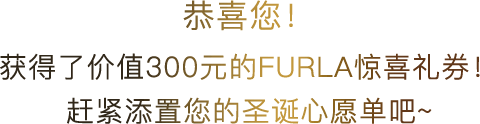
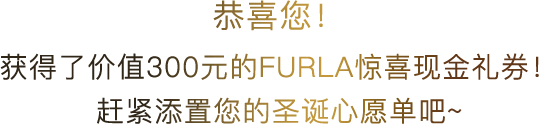
update prize tips

Changed region(s): [[0.0, 0.4113, 1.0, 0.6532], [0.125, 0.7742, 0.9062, 1.0], [0.375, 0.0, 0.625, 0.2419]]

diff --git a/dist/css/style.css b/dist/css/style.css
@@ -1,1 +1,1 @@
-@charset "UTF-8";*,html{-webkit-text-size-adjust:100%}article,aside,details,figcaption,figure,footer,header,hgroup,img,main,menu,nav,section,summary{display:block}.popup,img{width:100%}.popup,.video-wrap{bottom:0;right:0;box-sizing:border-box}.animate,body{-webkit-backface-visibility:hidden}.animate,.box-top{-webkit-transition:all 1s}.bg,.box-animate,.pin{overflow:hidden}a,abbr,acronym,address,applet,article,aside,audio,b,big,blockquote,body,canvas,caption,center,cite,code,dd,del,details,dfn,div,dl,dt,em,embed,fieldset,figcaption,figure,footer,form,h1,h2,h3,h4,h5,h6,header,hgroup,html,i,iframe,img,ins,kbd,label,legend,li,mark,menu,nav,object,ol,output,p,pre,q,ruby,s,samp,section,small,span,strike,strong,sub,summary,sup,table,tbody,td,tfoot,th,thead,time,tr,tt,u,ul,var,video{margin:0;padding:0;border:0;font:inherit;font-size:100%;vertical-align:baseline}html{line-height:1}ol,ul{list-style:none}table{border-collapse:collapse;border-spacing:0}caption,td,th{text-align:left;font-weight:400;vertical-align:middle}blockquote,q{quotes:none}blockquote:after,blockquote:before,q:after,q:before{content:"";content:none}a img{border:none}@media all and (orientation:landscape){html{font-size:calc(100vh / 375 * 50)}}@media all and (orientation:portrait){html{font-size:calc(100vw / 375 * 50)}}body{font-family:'Microsoft Yahei',sans-serif;line-height:1.5;font-size:.24rem;color:#000}*{-webkit-touch-callout:none;-webkit-tap-highlight-color:transparent}:not(input):not(textarea):not(select){-webkit-user-select:none;-moz-user-select:none;-ms-user-select:none;user-select:none}.hide{display:none!important}.popup{display:none;position:fixed;left:0;top:0;height:100%;padding:1.4rem .5rem;background:rgba(0,0,0,.8);z-index:20;color:#000}.popup.show{display:block}.popup .inner{width:100vw;position:absolute;left:50%;top:50%;-webkit-transform:translate(-50%,-50%);-moz-transform:translate(-50%,-50%);-ms-transform:translate(-50%,-50%);-o-transform:translate(-50%,-50%);transform:translate(-50%,-50%)}.popup .title{padding:.2rem 0;margin:0 auto;text-align:center;background:#000;color:#fff;font-size:.36rem}.popup .pcontent{padding:.4rem;font-size:.28rem;line-height:1.6;text-align:left;color:#515151}.popup .pcontent p{color:#fff;font-size:.24rem;padding:0 .26rem}.popup .pcontent h3{color:#fff;font-size:.32rem;margin-bottom:.2rem}.popup .pcontent h3.t2{margin-top:.5rem}.popup .btn-close{position:relative;z-index:20;width:.8rem;height:.8rem;text-indent:-999em;background:#fff;border-radius:100%;margin:0 auto}.popup .btn-close:after,.popup .btn-close:before{content:'';display:block;width:.6rem;height:.04rem;top:50%;left:50%;margin-left:-.3rem;position:absolute;background:#a38334}.popup .btn-close:after{-webkit-transform:rotate(45deg);-moz-transform:rotate(45deg);-ms-transform:rotate(45deg);-o-transform:rotate(45deg);transform:rotate(45deg)}.popup .btn-close:before{-webkit-transform:rotate(-45deg);-moz-transform:rotate(-45deg);-ms-transform:rotate(-45deg);-o-transform:rotate(-45deg);transform:rotate(-45deg)}.video-wrap{display:none;position:fixed;left:0;top:0;width:100%;height:100%;z-index:10;background:#000}.device-andriod .video-wrap{padding-top:1.3rem}.video-wrap .video-block{position:absolute;left:0;top:0;width:100%;height:100%;z-index:1}.video-wrap.show{display:block}.video-wrap .video-js{z-index:10;width:100%!important;height:100%!important}.video-wrap .btn-closevideo{z-index:11;width:.6rem;height:.6rem;cursor:pointer;position:absolute;right:.2rem;top:.2rem;padding:.1rem}.video-wrap .btn-closevideo:after,.video-wrap .btn-closevideo:before{content:'';display:block;width:.6rem;height:.03rem;top:50%;position:absolute;background:rgba(255,255,255,.6)}.video-wrap .btn-closevideo:after{-webkit-transform:rotate(45deg);-moz-transform:rotate(45deg);-ms-transform:rotate(45deg);-o-transform:rotate(45deg);transform:rotate(45deg)}.video-wrap .btn-closevideo:before{-webkit-transform:rotate(-45deg);-moz-transform:rotate(-45deg);-ms-transform:rotate(-45deg);-o-transform:rotate(-45deg);transform:rotate(-45deg)}.video-wrap .btn-closevideo:hover:after,.video-wrap .btn-closevideo:hover:before{background:#fff}@media screen and (orientation:portrait){.show-on-landscape{display:none}.show-on-portrait{display:block}}@media screen and (orientation:landscape){.show-on-landscape{display:block}.show-on-portrait{display:none}}.alertpop{position:absolute;left:0;top:0;z-index:102;width:100%;height:100%;background:rgba(0,0,0,.6)}.alertpop .inner{position:absolute;left:50%;top:50%;-webkit-transform:translate(-50%,-50%);-moz-transform:translate(-50%,-50%);-ms-transform:translate(-50%,-50%);-o-transform:translate(-50%,-50%);transform:translate(-50%,-50%);padding:.6rem .2rem;background:#fff;color:#000;font-size:.32rem;text-align:center;border-radius:5px}.alertpop .msg{font-size:.24rem}.alertpop .btn-alert-ok{position:absolute;top:0;right:0;z-index:20;width:.6rem;height:.6rem;text-indent:-999em}.alertpop .btn-alert-ok:after,.alertpop .btn-alert-ok:before{content:'';display:block;width:.4rem;height:.02rem;top:50%;left:50%;margin-left:-.2rem;position:absolute;background:#000}.alertpop .btn-alert-ok:after{-webkit-transform:rotate(45deg);-moz-transform:rotate(45deg);-ms-transform:rotate(45deg);-o-transform:rotate(45deg);transform:rotate(45deg)}.alertpop .btn-alert-ok:before{-webkit-transform:rotate(-45deg);-moz-transform:rotate(-45deg);-ms-transform:rotate(-45deg);-o-transform:rotate(-45deg);transform:rotate(-45deg)}.ajaxpop{position:absolute;z-index:10;top:0;left:0;width:100%;height:100%;margin-right:5px}.ajaxpop .loading{position:absolute;width:2rem;height:1rem;top:50%;left:50%;margin-left:-1.1rem;margin-top:-.6rem;line-height:1rem;background:rgba(0,0,0,.8);padding:.2rem;border-radius:10px;-ms-border-radius:10px;-moz-border-radius:10px;-o-border-radius:10px;-webkit-border-radius:10px;text-align:center;color:#fff}.ajaxpop .icon-loading{display:inline-block;position:relative;width:.3rem;height:.3rem;margin-right:4px;vertical-align:middle;border-radius:100%;-ms-border-radius:100%;-moz-border-radius:100%;-o-border-radius:100%;-webkit-border-radius:100%;border:3px solid rgba(255,255,255,.4)}.ajaxpop .icon-loading:after{content:'';position:absolute;top:-3px;right:-3px;bottom:-3px;left:-3px;border-radius:100%;-ms-border-radius:100%;-moz-border-radius:100%;-o-border-radius:100%;-webkit-border-radius:100%;border:3px solid transparent;border-top-color:#fff;-webkit-animation:spin 1s linear infinite}@-webkit-keyframes spin{0%{-webkit-transform:rotate(0)}100%{-webkit-transform:rotate(360deg)}}@-moz-keyframes spin{0%{-moz-transform:rotate(0)}100%{-moz-transform:rotate(360deg)}}@-o-keyframes spin{0%{-o-transform:rotate(0)}100%{-o-transform:rotate(360deg)}}@keyframes spin{0%{-webkit-transform:rotate(0);transform:rotate(0)}100%{-webkit-transform:rotate(360deg);transform:rotate(360deg)}}.animate{animation-duration:.6s;-webkit-animation-duration:.6s;animation-timing-function:cubic-bezier(.42,0,.58,1);-webkit-animation-timing-function:cubic-bezier(.42,0,.58,1);animation-play-state:running;-webkit-animation-play-state:running;animation-fill-mode:both;-webkit-animation-fill-mode:both;-moz-backface-visibility:hidden;-ms-backface-visibility:hidden;backface-visibility:hidden;-webkit-perspective:1000;-moz-perspective:1000;-ms-perspective:1000;perspective:1000;-webkit-transform:translate3d(0,0,0);-moz-transform:translate3d(0,0,0);-ms-transform:translate3d(0,0,0);transform:translate3d(0,0,0);-moz-transition:all 1s;-o-transition:all 1s;transition:all 1s}.fade{animation-name:fade;-webkit-animation-name:fade}.fadeinup{animation-name:fadeInUp;-webkit-animation-name:fadeInUp}@-webkit-keyframes fadeInUp{0%{opacity:0;-webkit-transform:translateY(20px)}100%{opacity:1;-webkit-transform:translateY(0)}}@-moz-keyframes fadeInUp{0%{opacity:0;-moz-transform:translateY(20px)}100%{opacity:1;-moz-transform:translateY(0)}}@-o-keyframes fadeInUp{0%{opacity:0;-o-transform:translateY(20px)}100%{opacity:1;-o-transform:translateY(0)}}@keyframes fadeInUp{0%{opacity:0;-webkit-transform:translateY(20px);transform:translateY(20px)}100%{opacity:1;-webkit-transform:translateY(0);transform:translateY(0)}}.fadeindown{animation-name:fadeInDown;-webkit-animation-name:fadeInDown}@-webkit-keyframes fadeInDown{0%{opacity:0;-webkit-transform:translateY(0)}100%{opacity:1;-webkit-transform:translateY(20px)}}@-moz-keyframes fadeInDown{0%{opacity:0;-moz-transform:translateY(0)}100%{opacity:1;-moz-transform:translateY(20px)}}@-o-keyframes fadeInDown{0%{opacity:0;-o-transform:translateY(0)}100%{opacity:1;-o-transform:translateY(20px)}}@keyframes fadeInDown{0%{opacity:0;-webkit-transform:translateY(0);transform:translateY(0)}100%{opacity:1;-webkit-transform:translateY(20px);transform:translateY(20px)}}.fadeout{animation-name:fadeOut;-webkit-animation-name:fadeOut}.delay1{animation-delay:1s;-webkit-animation-delay:1s}.delay2{animation-delay:2s;-webkit-animation-delay:2s}.delay3{animation-delay:3s;-webkit-animation-delay:3s}.delay4{animation-delay:4s;-webkit-animation-delay:4s}.delay5{animation-delay:5s;-webkit-animation-delay:5s}.fadeoutbottom{opacity:0;-webkit-transform:translateY(10px);-moz-transform:translateY(10px);-ms-transform:translateY(10px);-o-transform:translateY(10px);transform:translateY(10px)}.fadeintop{opacity:1;z-index:2;-webkit-transform:translateY(-10px);-moz-transform:translateY(-10px);-ms-transform:translateY(-10px);-o-transform:translateY(-10px);transform:translateY(-10px)}.bg,.wrapper{z-index:1;width:100%;height:100%;left:0}.slidetotop{animation-name:slidetotop;-webkit-animation-name:slidetotop}@-webkit-keyframes fade{0%{opacity:0}100%{opacity:1}}@-moz-keyframes fade{0%{opacity:0}100%{opacity:1}}@-o-keyframes fade{0%{opacity:0}100%{opacity:1}}@keyframes fade{0%{opacity:0}100%{opacity:1}}@-webkit-keyframes fadeOut{0%{opacity:1}100%{opacity:0}}@-moz-keyframes fadeOut{0%{opacity:1}100%{opacity:0}}@-o-keyframes fadeOut{0%{opacity:1}100%{opacity:0}}@keyframes fadeOut{0%{opacity:1}100%{opacity:0}}@-webkit-keyframes slidetotop{0%{opacity:0;transform:translate(0,10px)}80%{opacity:1}100%{opacity:1;transform:translate(0,0)}}@-moz-keyframes slidetotop{0%{opacity:0;transform:translate(0,10px)}80%{opacity:1}100%{opacity:1;transform:translate(0,0)}}@-o-keyframes slidetotop{0%{opacity:0;transform:translate(0,10px)}80%{opacity:1}100%{opacity:1;transform:translate(0,0)}}@keyframes slidetotop{0%{opacity:0;transform:translate(0,10px)}80%{opacity:1}100%{opacity:1;transform:translate(0,0)}}.waves{position:relative}.bg,.bg .bg-layer-1,.bg .bg-layer-3,.waves:after,.wrapper{position:absolute;top:0}.waves:after{content:'';display:block;left:0;width:100%;height:100%;border:1px solid red;border-radius:100%;-webkit-animation:waves 1.2s infinite;-moz-animation:waves 1.2s infinite;animation:waves 1.2s infinite}@-webkit-keyframes waves{0%{-webkit-transform:scale(1);opacity:.8}25%{-webkit-transform:scale(1.2);opacity:.2}50%{-webkit-transform:scale(1.6);opacity:0}75%{-webkit-transform:scale(1.2);opacity:0}100%{-webkit-transform:scale(1);opacity:0}}@-moz-keyframes waves{0%{-moz-transform:scale(1);opacity:.8}25%{-moz-transform:scale(1.2);opacity:.2}50%{-moz-transform:scale(1.6);opacity:0}75%{-moz-transform:scale(1.2);opacity:0}100%{-moz-transform:scale(1);opacity:0}}@-o-keyframes waves{0%{-o-transform:scale(1);opacity:.8}25%{-o-transform:scale(1.2);opacity:.2}50%{-o-transform:scale(1.6);opacity:0}75%{-o-transform:scale(1.2);opacity:0}100%{-o-transform:scale(1);opacity:0}}@keyframes waves{0%{-webkit-transform:scale(1);transform:scale(1);opacity:.8}25%{-webkit-transform:scale(1.2);transform:scale(1.2);opacity:.2}50%{-webkit-transform:scale(1.6);transform:scale(1.6);opacity:0}75%{-webkit-transform:scale(1.2);transform:scale(1.2);opacity:0}100%{-webkit-transform:scale(1);transform:scale(1);opacity:0}}body,html{width:100%;height:100%}.wrapper{background:url(../images/bg.jpg) no-repeat;background-size:cover}.bg .bg-layer-1{left:0;width:2.67rem;height:2.56rem;background:url(../images/bg-layer-1.png) no-repeat;background-size:cover}.bg .bg-layer-1.bg-right{left:auto;right:-.2rem;-webkit-transform:rotate(90deg);-moz-transform:rotate(90deg);-ms-transform:rotate(90deg);-o-transform:rotate(90deg);transform:rotate(90deg)}.pin-3 .box-bottom .card,.v-content{-webkit-transform:translate(-50%,-50%);-moz-transform:translate(-50%,-50%);-ms-transform:translate(-50%,-50%);-o-transform:translate(-50%,-50%)}.bg .bg-layer-3{right:0;width:7.5rem;height:2.2rem}.container,.pin{left:0;top:0;width:100%;height:100%;position:absolute}.pin{display:none}.btn a,.btn span,.pin.current{display:block}.container{opacity:0;z-index:3}.logo{width:2.85rem;height:1.16rem;padding-top:.6rem;margin:0 auto .4rem}.btn{margin:0 auto;min-width:2.2rem;max-width:4rem;border:1px solid #5e5755;border-radius:0 3px 3px;padding:0 2px 2px 0}.btn span{margin-top:-1px;margin-left:-1px;padding:.2rem 0;color:#fff;background:#000;text-align:center;font-size:.3rem;letter-spacing:1px;box-shadow:#999 1px 1px 3px}.btn a{color:#fff;text-decoration:none}.v-content{position:absolute;left:50%;top:50%;transform:translate(-50%,-50%)}.bg-layer-2{position:absolute;bottom:0;left:0;width:100%;height:1.98rem;background:url(../images/bg-layer-2.png) no-repeat;background-size:100%;z-index:1}.pin-1 .content{position:relative;z-index:2;width:5.11rem;height:4.64rem;margin:0 auto}.pin-1 .arrow-next{position:relative;width:.8rem;height:.8rem;background:#fff;border-radius:100%;margin:.3rem auto .5rem}.pin-1 .arrow-next:before{content:'';display:block;position:absolute;left:50%;top:50%;margin-left:-.15rem;margin-top:-.25rem;width:.3rem;height:.3rem;border-left:#a6873b .04rem solid;border-bottom:#a6873b .04rem solid;-webkit-transform:rotate(-45deg);-moz-transform:rotate(-45deg);-ms-transform:rotate(-45deg);-o-transform:rotate(-45deg);transform:rotate(-45deg)}.pin-1 .show-rule{padding:.1rem;font-size:.28rem;color:#957317;text-decoration:underline;text-align:center}.p2-t1{width:5.79rem;height:auto;margin:0 auto .4rem}.drag-ele{position:absolute;z-index:100;width:2.61rem;height:1.73rem;left:-2.7rem;top:-1.8rem}#swiper-products{position:relative;width:90vw;margin:0 auto .3rem}#swiper-products .swiper-container{padding-bottom:.5rem}#swiper-products .swiper-button-next,#swiper-products .swiper-button-prev{background-image:url(../images/arrow.png);width:.2rem;height:.38rem;background-size:cover}#swiper-products .swiper-button-prev{left:-3vw}#swiper-products .swiper-button-next{right:-3vw;-webkit-transform:rotate(180deg);-moz-transform:rotate(180deg);-ms-transform:rotate(180deg);-o-transform:rotate(180deg);transform:rotate(180deg)}#swiper-products .product-name{display:none;position:absolute;top:2.2rem;left:50%;width:50vw;-webkit-transform:translateX(-50%);-moz-transform:translateX(-50%);-ms-transform:translateX(-50%);-o-transform:translateX(-50%);transform:translateX(-50%);text-align:center;font-size:.24rem;color:#18131c;opacity:.9}#swiper-products .item-content,.btn-writecard{position:relative}#swiper-products .swiper-slide{opacity:.2}#swiper-products .swiper-slide-next{opacity:1}#swiper-products .swiper-slide-next .product-name{display:block}.dest-block{display:-webkit-flex;display:-moz-flex;display:flex;display:-ms-flexbox;box-orient:horizontal;-webkit-box-align:center;-moz-box-align:center;-ms-flex-align:center;-webkit-align-items:center;align-items:center;-webkit-box-pack:center;-moz-box-pack:center;-ms-flex-pack:center;-webkit-justify-content:center;justify-content:center;width:6.75rem;height:4.04rem;margin:0 auto;background:url(../images/box-bottom.jpg) no-repeat;background-size:100%}.dest-block .item{width:26%;height:auto;margin:0 .1rem;text-align:center}.btn-writecard{margin-top:.4rem;z-index:101}.box-top{position:absolute;left:calc(100vw - 2.6rem);top:calc(100vh - 3.15rem);z-index:100;width:7.2rem;height:4.15rem;background:url(../images/box-top.png) no-repeat;background-size:100%;-webkit-transform:rotate(-30deg);-moz-transform:rotate(-30deg);-ms-transform:rotate(-30deg);-o-transform:rotate(-30deg);transform:rotate(-30deg);-moz-transition:all 1s 1s;-o-transition:all 1s 1s;-webkit-transition-delay:1s;transition:all 1s 1s}.movetocenter{top:4.84rem;left:50%;-webkit-transform:rotate(0) translateX(-50%);-moz-transform:rotate(0) translateX(-50%);-ms-transform:rotate(0) translateX(-50%);-o-transform:rotate(0) translateX(-50%);transform:rotate(0) translateX(-50%)}.section-letter{position:absolute;right:0;bottom:0;width:100%;height:100%;z-index:10;background:#fff}.section-letter .logo{position:relative;z-index:2;padding-top:1.5rem}.pin-3-content .logo,.pin-4 .logo,.pin-gift-1 .logo,.pin-gift-3 .logo{padding-top:1.6rem}.section-letter .bg-layer-2{position:absolute;top:-.5rem;left:0;width:100%;height:1.98rem;background:url(../images/bg-layer-2.png) no-repeat;background-size:100%;z-index:1;-webkit-transform:rotate(180deg);-moz-transform:rotate(180deg);-ms-transform:rotate(180deg);-o-transform:rotate(180deg);transform:rotate(180deg)}.section-letter .btn-postcard{margin-top:1rem}.shrinktocorner{-webkit-transform:scale(.1);-moz-transform:scale(.1);-ms-transform:scale(.1);-o-transform:scale(.1);transform:scale(.1);bottom:-90vh;right:-90vw}.letter-wrap{width:5.6rem;margin:0 auto}.letter-wrap input[type=text],.letter-wrap textarea{font-size:.26rem;color:#18131c}.letter-wrap input[type=text]:focus,.letter-wrap textarea:focus{outline:0}.letter-wrap textarea:disabled{background:0 0}.letter-wrap label{display:inline-block;text-indent:-999em}.letter-wrap input[type=text]{background:url(../images/line.png) bottom repeat-x;background-size:auto 1rem;height:.6rem;line-height:.6rem;text-indent:.2rem;border:none;-webkit-appearance:none}.letter-wrap .letter-header label{width:1.17rem;height:.33rem;background:url(../images/p2-t3.png) no-repeat;background-size:100%}.letter-wrap .letter-content input,.letter-wrap .letter-content textarea{display:block}.letter-wrap .letter-content textarea{width:100%;overflow:hidden;height:3rem;line-height:1rem;-webkit-appearance:none;border:none;background-image:url(../images/line.png);background-repeat:repeat;background-size:auto 1rem;resize:none;text-align:center}.letter-wrap .letter-bottom label{width:.82rem;height:.34rem;background:url(../images/p2-t4.png) no-repeat;background-size:100%}.letter-wrap .letter-date{color:#18131c;font-size:.22rem;text-align:right;margin-top:.2rem}.pin-3 .box-bottom{position:relative;opacity:0}.pin-3 .box-bottom .dest-block-wrap{width:6.75rem;height:4.04rem;margin:0 auto;background:url(../images/box-bottom.jpg) no-repeat;background-size:100%}.pin-3 .box-bottom .dest-block{position:relative;z-index:2;background:0 0}.pin-3 .box-bottom .card{position:absolute;z-index:1;width:1.97rem;height:2.19rem;left:50%;top:46%;transform:translate(-50%,-50%)}.pin-3 .box-bottom .card.goright{left:200vw}.pin-3-content .p3-t1{width:7.5rem;height:1.68rem;margin:0 auto}.pin-4 .replace-text{width:3.2rem;height:.8rem;margin:1rem auto}.pin-4 .replace-text.rt-2{width:4.8rem;height:1.24rem}.pin-4 .replace-text.rt-3{width:4.26rem;height:.8rem}.pin-4 .btn-again{margin-top:.35rem}.box-animate{opacity:0;position:absolute;left:0;top:0;z-index:0;width:100%;height:100%}.pin-gift-1 .pg1-t1{width:2.98rem;height:.76rem;margin:.45rem auto}.pin-gift-1 .pg1-t1.pg1-tt{width:3.17rem;height:.75rem}.pin-gift-1 .box-bottom{position:relative;opacity:0}.pin-gift-1 .box-bottom .dest-block-wrap{width:6.75rem;height:4.04rem;margin:0 auto;background:url(../images/box-bottom.jpg) no-repeat;background-size:100%}.pin-gift-1 .box-bottom .dest-block{position:relative;z-index:2;background:0 0}.pin-gift-1 .box-bottom .card{position:absolute;z-index:1;width:1.97rem;height:2.19rem;left:50%;top:46%;-webkit-transform:translate(-50%,-50%);-moz-transform:translate(-50%,-50%);-ms-transform:translate(-50%,-50%);-o-transform:translate(-50%,-50%);transform:translate(-50%,-50%)}.pin-gift-1 .box-bottom .card.goright{left:200vw}.pin-gift-1 .box-top{top:4.38rem;left:50%;-webkit-transform:translateX(-50%) rotate(0);-moz-transform:translateX(-50%) rotate(0);-ms-transform:translateX(-50%) rotate(0);-o-transform:translateX(-50%) rotate(0);transform:translateX(-50%) rotate(0)}.pin-gift-1 .box-top.open{left:calc(100vw - 2.6rem);top:calc(100vh - 3.15rem);-webkit-transform:translateX(0) rotate(-30deg);-moz-transform:translateX(0) rotate(-30deg);-ms-transform:translateX(0) rotate(-30deg);-o-transform:translateX(0) rotate(-30deg);transform:translateX(0) rotate(-30deg)}.pin-gift-1 .pg1-t2{width:5.53rem;height:.29rem;margin:.5rem auto 0}.pin-gift-2 .section-letter{right:-100%;-moz-transition:all 1s;-o-transition:all 1s;-webkit-transition:all 1s;transition:all 1s}.pin-gift-2 .section-letter.change{right:0}.pin-gift-3 .replace-text{width:3.86rem;height:.8rem;margin:.5rem auto .6rem}.pin-gift-3 .replace-text.rt-2{width:3.48rem;height:1.3rem}.page-form .logo{padding-top:0}.page-form .v-content{z-index:10}#form-contact{width:80vw}#form-contact .title{width:2.65rem;height:.31rem;margin:0 auto .2rem}#form-contact input[type=text],#form-contact input[type=tel]{margin:0;background:url(../images/input-bg.png) no-repeat;background-size:100% 100%;border:none;padding:.3rem .5rem .5rem;box-sizing:border-box;font-size:.24rem}#form-contact .input-box{margin-bottom:.1rem}#form-contact .input-box-name input[type=text]{width:49%}#form-contact .input-box-mobile input[type=text]{width:25%}#form-contact .input-box-mobile input[type=text]:disabled{opacity:1}#form-contact .input-box-mobile input[type=tel]{width:73%}#form-contact .input-box-address input[type=text],#form-contact .input-box-mail input[type=text]{width:98%}#form-contact .input-checkbox{color:#8b6602;font-size:.22rem;margin-bottom:.3rem}#form-contact .error{color:#d79939;font-size:.2rem}.success-block{position:relative;z-index:2}.success-block .s-t1{width:1.3rem;height:1.5rem;margin:.5rem auto}.success-block .btn-gohome{width:3.6rem}
+@charset "UTF-8";*,html{-webkit-text-size-adjust:100%}article,aside,details,figcaption,figure,footer,header,hgroup,img,main,menu,nav,section,summary{display:block}.popup,img{width:100%}.popup,.video-wrap{bottom:0;right:0;box-sizing:border-box}.animate,body{-webkit-backface-visibility:hidden}.animate,.box-top{-webkit-transition:all 1s}.bg,.box-animate,.pin{overflow:hidden}a,abbr,acronym,address,applet,article,aside,audio,b,big,blockquote,body,canvas,caption,center,cite,code,dd,del,details,dfn,div,dl,dt,em,embed,fieldset,figcaption,figure,footer,form,h1,h2,h3,h4,h5,h6,header,hgroup,html,i,iframe,img,ins,kbd,label,legend,li,mark,menu,nav,object,ol,output,p,pre,q,ruby,s,samp,section,small,span,strike,strong,sub,summary,sup,table,tbody,td,tfoot,th,thead,time,tr,tt,u,ul,var,video{margin:0;padding:0;border:0;font:inherit;font-size:100%;vertical-align:baseline}html{line-height:1}ol,ul{list-style:none}table{border-collapse:collapse;border-spacing:0}caption,td,th{text-align:left;font-weight:400;vertical-align:middle}blockquote,q{quotes:none}blockquote:after,blockquote:before,q:after,q:before{content:"";content:none}a img{border:none}@media all and (orientation:landscape){html{font-size:calc(100vh / 375 * 50)}}@media all and (orientation:portrait){html{font-size:calc(100vw / 375 * 50)}}body{font-family:'Microsoft Yahei',sans-serif;line-height:1.5;font-size:.24rem;color:#000}*{-webkit-touch-callout:none;-webkit-tap-highlight-color:transparent}:not(input):not(textarea):not(select){-webkit-user-select:none;-moz-user-select:none;-ms-user-select:none;user-select:none}.hide{display:none!important}.popup{display:none;position:fixed;left:0;top:0;height:100%;padding:1.4rem .5rem;background:rgba(0,0,0,.8);z-index:20;color:#000}.popup.show{display:block}.popup .inner{width:100vw;position:absolute;left:50%;top:50%;-webkit-transform:translate(-50%,-50%);-moz-transform:translate(-50%,-50%);-ms-transform:translate(-50%,-50%);-o-transform:translate(-50%,-50%);transform:translate(-50%,-50%)}.popup .title{padding:.2rem 0;margin:0 auto;text-align:center;background:#000;color:#fff;font-size:.36rem}.popup .pcontent{padding:.4rem;font-size:.28rem;line-height:1.6;text-align:left;color:#515151}.popup .pcontent p{color:#fff;font-size:.24rem;padding:0 .26rem}.popup .pcontent h3{color:#fff;font-size:.32rem;margin-bottom:.2rem}.popup .pcontent h3.t2{margin-top:.5rem}.popup .btn-close{position:relative;z-index:20;width:.8rem;height:.8rem;text-indent:-999em;background:#fff;border-radius:100%;margin:0 auto}.popup .btn-close:after,.popup .btn-close:before{content:'';display:block;width:.6rem;height:.04rem;top:50%;left:50%;margin-left:-.3rem;position:absolute;background:#a38334}.popup .btn-close:after{-webkit-transform:rotate(45deg);-moz-transform:rotate(45deg);-ms-transform:rotate(45deg);-o-transform:rotate(45deg);transform:rotate(45deg)}.popup .btn-close:before{-webkit-transform:rotate(-45deg);-moz-transform:rotate(-45deg);-ms-transform:rotate(-45deg);-o-transform:rotate(-45deg);transform:rotate(-45deg)}.video-wrap{display:none;position:fixed;left:0;top:0;width:100%;height:100%;z-index:10;background:#000}.device-andriod .video-wrap{padding-top:1.3rem}.video-wrap .video-block{position:absolute;left:0;top:0;width:100%;height:100%;z-index:1}.video-wrap.show{display:block}.video-wrap .video-js{z-index:10;width:100%!important;height:100%!important}.video-wrap .btn-closevideo{z-index:11;width:.6rem;height:.6rem;cursor:pointer;position:absolute;right:.2rem;top:.2rem;padding:.1rem}.video-wrap .btn-closevideo:after,.video-wrap .btn-closevideo:before{content:'';display:block;width:.6rem;height:.03rem;top:50%;position:absolute;background:rgba(255,255,255,.6)}.video-wrap .btn-closevideo:after{-webkit-transform:rotate(45deg);-moz-transform:rotate(45deg);-ms-transform:rotate(45deg);-o-transform:rotate(45deg);transform:rotate(45deg)}.video-wrap .btn-closevideo:before{-webkit-transform:rotate(-45deg);-moz-transform:rotate(-45deg);-ms-transform:rotate(-45deg);-o-transform:rotate(-45deg);transform:rotate(-45deg)}.video-wrap .btn-closevideo:hover:after,.video-wrap .btn-closevideo:hover:before{background:#fff}@media screen and (orientation:portrait){.show-on-landscape{display:none}.show-on-portrait{display:block}}@media screen and (orientation:landscape){.show-on-landscape{display:block}.show-on-portrait{display:none}}.alertpop{position:absolute;left:0;top:0;z-index:102;width:100%;height:100%;background:rgba(0,0,0,.6)}.alertpop .inner{position:absolute;left:50%;top:50%;-webkit-transform:translate(-50%,-50%);-moz-transform:translate(-50%,-50%);-ms-transform:translate(-50%,-50%);-o-transform:translate(-50%,-50%);transform:translate(-50%,-50%);padding:.6rem .2rem;background:#fff;color:#000;font-size:.32rem;text-align:center;border-radius:5px}.alertpop .msg{font-size:.24rem}.alertpop .btn-alert-ok{position:absolute;top:0;right:0;z-index:20;width:.6rem;height:.6rem;text-indent:-999em}.alertpop .btn-alert-ok:after,.alertpop .btn-alert-ok:before{content:'';display:block;width:.4rem;height:.02rem;top:50%;left:50%;margin-left:-.2rem;position:absolute;background:#000}.alertpop .btn-alert-ok:after{-webkit-transform:rotate(45deg);-moz-transform:rotate(45deg);-ms-transform:rotate(45deg);-o-transform:rotate(45deg);transform:rotate(45deg)}.alertpop .btn-alert-ok:before{-webkit-transform:rotate(-45deg);-moz-transform:rotate(-45deg);-ms-transform:rotate(-45deg);-o-transform:rotate(-45deg);transform:rotate(-45deg)}.ajaxpop{position:absolute;z-index:10;top:0;left:0;width:100%;height:100%;margin-right:5px}.ajaxpop .loading{position:absolute;width:2rem;height:1rem;top:50%;left:50%;margin-left:-1.1rem;margin-top:-.6rem;line-height:1rem;background:rgba(0,0,0,.8);padding:.2rem;border-radius:10px;-ms-border-radius:10px;-moz-border-radius:10px;-o-border-radius:10px;-webkit-border-radius:10px;text-align:center;color:#fff}.ajaxpop .icon-loading{display:inline-block;position:relative;width:.3rem;height:.3rem;margin-right:4px;vertical-align:middle;border-radius:100%;-ms-border-radius:100%;-moz-border-radius:100%;-o-border-radius:100%;-webkit-border-radius:100%;border:3px solid rgba(255,255,255,.4)}.ajaxpop .icon-loading:after{content:'';position:absolute;top:-3px;right:-3px;bottom:-3px;left:-3px;border-radius:100%;-ms-border-radius:100%;-moz-border-radius:100%;-o-border-radius:100%;-webkit-border-radius:100%;border:3px solid transparent;border-top-color:#fff;-webkit-animation:spin 1s linear infinite}@-webkit-keyframes spin{0%{-webkit-transform:rotate(0)}100%{-webkit-transform:rotate(360deg)}}@-moz-keyframes spin{0%{-moz-transform:rotate(0)}100%{-moz-transform:rotate(360deg)}}@-o-keyframes spin{0%{-o-transform:rotate(0)}100%{-o-transform:rotate(360deg)}}@keyframes spin{0%{-webkit-transform:rotate(0);transform:rotate(0)}100%{-webkit-transform:rotate(360deg);transform:rotate(360deg)}}.animate{animation-duration:.6s;-webkit-animation-duration:.6s;animation-timing-function:cubic-bezier(.42,0,.58,1);-webkit-animation-timing-function:cubic-bezier(.42,0,.58,1);animation-play-state:running;-webkit-animation-play-state:running;animation-fill-mode:both;-webkit-animation-fill-mode:both;-moz-backface-visibility:hidden;-ms-backface-visibility:hidden;backface-visibility:hidden;-webkit-perspective:1000;-moz-perspective:1000;-ms-perspective:1000;perspective:1000;-webkit-transform:translate3d(0,0,0);-moz-transform:translate3d(0,0,0);-ms-transform:translate3d(0,0,0);transform:translate3d(0,0,0);-moz-transition:all 1s;-o-transition:all 1s;transition:all 1s}.fade{animation-name:fade;-webkit-animation-name:fade}.fadeinup{animation-name:fadeInUp;-webkit-animation-name:fadeInUp}@-webkit-keyframes fadeInUp{0%{opacity:0;-webkit-transform:translateY(20px)}100%{opacity:1;-webkit-transform:translateY(0)}}@-moz-keyframes fadeInUp{0%{opacity:0;-moz-transform:translateY(20px)}100%{opacity:1;-moz-transform:translateY(0)}}@-o-keyframes fadeInUp{0%{opacity:0;-o-transform:translateY(20px)}100%{opacity:1;-o-transform:translateY(0)}}@keyframes fadeInUp{0%{opacity:0;-webkit-transform:translateY(20px);transform:translateY(20px)}100%{opacity:1;-webkit-transform:translateY(0);transform:translateY(0)}}.fadeindown{animation-name:fadeInDown;-webkit-animation-name:fadeInDown}@-webkit-keyframes fadeInDown{0%{opacity:0;-webkit-transform:translateY(0)}100%{opacity:1;-webkit-transform:translateY(20px)}}@-moz-keyframes fadeInDown{0%{opacity:0;-moz-transform:translateY(0)}100%{opacity:1;-moz-transform:translateY(20px)}}@-o-keyframes fadeInDown{0%{opacity:0;-o-transform:translateY(0)}100%{opacity:1;-o-transform:translateY(20px)}}@keyframes fadeInDown{0%{opacity:0;-webkit-transform:translateY(0);transform:translateY(0)}100%{opacity:1;-webkit-transform:translateY(20px);transform:translateY(20px)}}.fadeout{animation-name:fadeOut;-webkit-animation-name:fadeOut}.delay1{animation-delay:1s;-webkit-animation-delay:1s}.delay2{animation-delay:2s;-webkit-animation-delay:2s}.delay3{animation-delay:3s;-webkit-animation-delay:3s}.delay4{animation-delay:4s;-webkit-animation-delay:4s}.delay5{animation-delay:5s;-webkit-animation-delay:5s}.fadeoutbottom{opacity:0;-webkit-transform:translateY(10px);-moz-transform:translateY(10px);-ms-transform:translateY(10px);-o-transform:translateY(10px);transform:translateY(10px)}.fadeintop{opacity:1;z-index:2;-webkit-transform:translateY(-10px);-moz-transform:translateY(-10px);-ms-transform:translateY(-10px);-o-transform:translateY(-10px);transform:translateY(-10px)}.bg,.wrapper{z-index:1;width:100%;height:100%;left:0}.slidetotop{animation-name:slidetotop;-webkit-animation-name:slidetotop}@-webkit-keyframes fade{0%{opacity:0}100%{opacity:1}}@-moz-keyframes fade{0%{opacity:0}100%{opacity:1}}@-o-keyframes fade{0%{opacity:0}100%{opacity:1}}@keyframes fade{0%{opacity:0}100%{opacity:1}}@-webkit-keyframes fadeOut{0%{opacity:1}100%{opacity:0}}@-moz-keyframes fadeOut{0%{opacity:1}100%{opacity:0}}@-o-keyframes fadeOut{0%{opacity:1}100%{opacity:0}}@keyframes fadeOut{0%{opacity:1}100%{opacity:0}}@-webkit-keyframes slidetotop{0%{opacity:0;transform:translate(0,10px)}80%{opacity:1}100%{opacity:1;transform:translate(0,0)}}@-moz-keyframes slidetotop{0%{opacity:0;transform:translate(0,10px)}80%{opacity:1}100%{opacity:1;transform:translate(0,0)}}@-o-keyframes slidetotop{0%{opacity:0;transform:translate(0,10px)}80%{opacity:1}100%{opacity:1;transform:translate(0,0)}}@keyframes slidetotop{0%{opacity:0;transform:translate(0,10px)}80%{opacity:1}100%{opacity:1;transform:translate(0,0)}}.waves{position:relative}.bg,.bg .bg-layer-1,.bg .bg-layer-3,.waves:after,.wrapper{position:absolute;top:0}.waves:after{content:'';display:block;left:0;width:100%;height:100%;border:1px solid red;border-radius:100%;-webkit-animation:waves 1.2s infinite;-moz-animation:waves 1.2s infinite;animation:waves 1.2s infinite}@-webkit-keyframes waves{0%{-webkit-transform:scale(1);opacity:.8}25%{-webkit-transform:scale(1.2);opacity:.2}50%{-webkit-transform:scale(1.6);opacity:0}75%{-webkit-transform:scale(1.2);opacity:0}100%{-webkit-transform:scale(1);opacity:0}}@-moz-keyframes waves{0%{-moz-transform:scale(1);opacity:.8}25%{-moz-transform:scale(1.2);opacity:.2}50%{-moz-transform:scale(1.6);opacity:0}75%{-moz-transform:scale(1.2);opacity:0}100%{-moz-transform:scale(1);opacity:0}}@-o-keyframes waves{0%{-o-transform:scale(1);opacity:.8}25%{-o-transform:scale(1.2);opacity:.2}50%{-o-transform:scale(1.6);opacity:0}75%{-o-transform:scale(1.2);opacity:0}100%{-o-transform:scale(1);opacity:0}}@keyframes waves{0%{-webkit-transform:scale(1);transform:scale(1);opacity:.8}25%{-webkit-transform:scale(1.2);transform:scale(1.2);opacity:.2}50%{-webkit-transform:scale(1.6);transform:scale(1.6);opacity:0}75%{-webkit-transform:scale(1.2);transform:scale(1.2);opacity:0}100%{-webkit-transform:scale(1);transform:scale(1);opacity:0}}body,html{width:100%;height:100%}.wrapper{background:url(../images/bg.jpg) no-repeat;background-size:cover}.bg .bg-layer-1{left:0;width:2.67rem;height:2.56rem;background:url(../images/bg-layer-1.png) no-repeat;background-size:cover}.bg .bg-layer-1.bg-right{left:auto;right:-.2rem;-webkit-transform:rotate(90deg);-moz-transform:rotate(90deg);-ms-transform:rotate(90deg);-o-transform:rotate(90deg);transform:rotate(90deg)}.pin-3 .box-bottom .card,.v-content{-webkit-transform:translate(-50%,-50%);-moz-transform:translate(-50%,-50%);-ms-transform:translate(-50%,-50%);-o-transform:translate(-50%,-50%)}.bg .bg-layer-3{right:0;width:7.5rem;height:2.2rem}.container,.pin{left:0;top:0;width:100%;height:100%;position:absolute}.pin{display:none}.btn a,.btn span,.pin.current{display:block}.container{opacity:0;z-index:3}.logo{width:2.85rem;height:1.16rem;padding-top:.6rem;margin:0 auto .4rem}.btn{margin:0 auto;min-width:2.2rem;max-width:4rem;border:1px solid #5e5755;border-radius:0 3px 3px;padding:0 2px 2px 0}.btn span{margin-top:-1px;margin-left:-1px;padding:.2rem 0;color:#fff;background:#000;text-align:center;font-size:.3rem;letter-spacing:1px;box-shadow:#999 1px 1px 3px}.btn a{color:#fff;text-decoration:none}.v-content{position:absolute;left:50%;top:50%;transform:translate(-50%,-50%)}.bg-layer-2{position:absolute;bottom:0;left:0;width:100%;height:1.98rem;background:url(../images/bg-layer-2.png) no-repeat;background-size:100%;z-index:1}.pin-1 .content{position:relative;z-index:2;width:5.11rem;height:4.64rem;margin:0 auto}.pin-1 .arrow-next{position:relative;width:.8rem;height:.8rem;background:#fff;border-radius:100%;margin:.3rem auto .5rem}.pin-1 .arrow-next:before{content:'';display:block;position:absolute;left:50%;top:50%;margin-left:-.15rem;margin-top:-.25rem;width:.3rem;height:.3rem;border-left:#a6873b .04rem solid;border-bottom:#a6873b .04rem solid;-webkit-transform:rotate(-45deg);-moz-transform:rotate(-45deg);-ms-transform:rotate(-45deg);-o-transform:rotate(-45deg);transform:rotate(-45deg)}.pin-1 .show-rule{padding:.1rem;font-size:.28rem;color:#957317;text-decoration:underline;text-align:center}.p2-t1{width:5.79rem;height:auto;margin:0 auto .4rem}.drag-ele{position:absolute;z-index:100;width:2.61rem;height:1.73rem;left:-2.7rem;top:-1.8rem}#swiper-products{position:relative;width:90vw;margin:0 auto .3rem}#swiper-products .swiper-container{padding-bottom:.5rem}#swiper-products .swiper-button-next,#swiper-products .swiper-button-prev{background-image:url(../images/arrow.png);width:.2rem;height:.38rem;background-size:cover}#swiper-products .swiper-button-prev{left:-3vw}#swiper-products .swiper-button-next{right:-3vw;-webkit-transform:rotate(180deg);-moz-transform:rotate(180deg);-ms-transform:rotate(180deg);-o-transform:rotate(180deg);transform:rotate(180deg)}#swiper-products .product-name{display:none;position:absolute;top:2.2rem;left:50%;width:50vw;-webkit-transform:translateX(-50%);-moz-transform:translateX(-50%);-ms-transform:translateX(-50%);-o-transform:translateX(-50%);transform:translateX(-50%);text-align:center;font-size:.24rem;color:#18131c;opacity:.9}#swiper-products .item-content,.btn-writecard{position:relative}#swiper-products .swiper-slide{opacity:.2}#swiper-products .swiper-slide-next{opacity:1}#swiper-products .swiper-slide-next .product-name{display:block}.dest-block{display:-webkit-flex;display:-moz-flex;display:flex;display:-ms-flexbox;box-orient:horizontal;-webkit-box-align:center;-moz-box-align:center;-ms-flex-align:center;-webkit-align-items:center;align-items:center;-webkit-box-pack:center;-moz-box-pack:center;-ms-flex-pack:center;-webkit-justify-content:center;justify-content:center;width:6.75rem;height:4.04rem;margin:0 auto;background:url(../images/box-bottom.jpg) no-repeat;background-size:100%}.dest-block .item{width:26%;height:auto;margin:0 .1rem;text-align:center}.btn-writecard{margin-top:.4rem;z-index:101}.box-top{position:absolute;left:calc(100vw - 2.6rem);top:calc(100vh - 3.15rem);z-index:100;width:7.2rem;height:4.15rem;background:url(../images/box-top.png) no-repeat;background-size:100%;-webkit-transform:rotate(-30deg);-moz-transform:rotate(-30deg);-ms-transform:rotate(-30deg);-o-transform:rotate(-30deg);transform:rotate(-30deg);-moz-transition:all 1s 1s;-o-transition:all 1s 1s;-webkit-transition-delay:1s;transition:all 1s 1s}.movetocenter{top:4.84rem;left:50%;-webkit-transform:rotate(0) translateX(-50%);-moz-transform:rotate(0) translateX(-50%);-ms-transform:rotate(0) translateX(-50%);-o-transform:rotate(0) translateX(-50%);transform:rotate(0) translateX(-50%)}.section-letter{position:absolute;right:0;bottom:0;width:100%;height:100%;z-index:10;background:#fff}.section-letter .logo{position:relative;z-index:2;padding-top:1.5rem}.pin-3-content .logo,.pin-4 .logo,.pin-gift-1 .logo,.pin-gift-3 .logo{padding-top:1.6rem}.section-letter .bg-layer-2{position:absolute;top:-.5rem;left:0;width:100%;height:1.98rem;background:url(../images/bg-layer-2.png) no-repeat;background-size:100%;z-index:1;-webkit-transform:rotate(180deg);-moz-transform:rotate(180deg);-ms-transform:rotate(180deg);-o-transform:rotate(180deg);transform:rotate(180deg)}.section-letter .btn-postcard{margin-top:1rem}.shrinktocorner{-webkit-transform:scale(.1);-moz-transform:scale(.1);-ms-transform:scale(.1);-o-transform:scale(.1);transform:scale(.1);bottom:-90vh;right:-90vw}.letter-wrap{width:5.6rem;margin:0 auto}.letter-wrap input[type=text],.letter-wrap textarea{font-size:.26rem;color:#18131c}.letter-wrap input[type=text]:focus,.letter-wrap textarea:focus{outline:0}.letter-wrap textarea:disabled{background:0 0}.letter-wrap label{display:inline-block;text-indent:-999em}.letter-wrap input[type=text]{background:url(../images/line.png) bottom repeat-x;background-size:auto 1rem;height:.6rem;line-height:.6rem;text-indent:.2rem;border:none;-webkit-appearance:none}.letter-wrap .letter-header label{width:1.17rem;height:.33rem;background:url(../images/p2-t3.png) no-repeat;background-size:100%}.letter-wrap .letter-content input,.letter-wrap .letter-content textarea{display:block}.letter-wrap .letter-content textarea{width:100%;overflow:hidden;height:3rem;line-height:1rem;-webkit-appearance:none;border:none;background-image:url(../images/line.png);background-repeat:repeat;background-size:auto 1rem;resize:none;text-align:center}.letter-wrap .letter-bottom label{width:.82rem;height:.34rem;background:url(../images/p2-t4.png) no-repeat;background-size:100%}.letter-wrap .letter-date{color:#18131c;font-size:.22rem;text-align:right;margin-top:.2rem}.pin-3 .box-bottom{position:relative;opacity:0}.pin-3 .box-bottom .dest-block-wrap{width:6.75rem;height:4.04rem;margin:0 auto;background:url(../images/box-bottom.jpg) no-repeat;background-size:100%}.pin-3 .box-bottom .dest-block{position:relative;z-index:2;background:0 0}.pin-3 .box-bottom .card{position:absolute;z-index:1;width:1.97rem;height:2.19rem;left:50%;top:46%;transform:translate(-50%,-50%)}.pin-3 .box-bottom .card.goright{left:200vw}.pin-3-content .p3-t1{width:7.5rem;height:1.68rem;margin:0 auto}.pin-4 .replace-text{width:3.2rem;height:.8rem;margin:1rem auto}.pin-4 .replace-text.rt-2{width:5.39rem;height:1.24rem}.pin-4 .replace-text.rt-3{width:4.26rem;height:.8rem}.pin-4 .btn-again{margin-top:.35rem}.box-animate{opacity:0;position:absolute;left:0;top:0;z-index:0;width:100%;height:100%}.pin-gift-1 .pg1-t1{width:2.98rem;height:.76rem;margin:.45rem auto}.pin-gift-1 .pg1-t1.pg1-tt{width:3.17rem;height:.75rem}.pin-gift-1 .box-bottom{position:relative;opacity:0}.pin-gift-1 .box-bottom .dest-block-wrap{width:6.75rem;height:4.04rem;margin:0 auto;background:url(../images/box-bottom.jpg) no-repeat;background-size:100%}.pin-gift-1 .box-bottom .dest-block{position:relative;z-index:2;background:0 0}.pin-gift-1 .box-bottom .card{position:absolute;z-index:1;width:1.97rem;height:2.19rem;left:50%;top:46%;-webkit-transform:translate(-50%,-50%);-moz-transform:translate(-50%,-50%);-ms-transform:translate(-50%,-50%);-o-transform:translate(-50%,-50%);transform:translate(-50%,-50%)}.pin-gift-1 .box-bottom .card.goright{left:200vw}.pin-gift-1 .box-top{top:4.38rem;left:50%;-webkit-transform:translateX(-50%) rotate(0);-moz-transform:translateX(-50%) rotate(0);-ms-transform:translateX(-50%) rotate(0);-o-transform:translateX(-50%) rotate(0);transform:translateX(-50%) rotate(0)}.pin-gift-1 .box-top.open{left:calc(100vw - 2.6rem);top:calc(100vh - 3.15rem);-webkit-transform:translateX(0) rotate(-30deg);-moz-transform:translateX(0) rotate(-30deg);-ms-transform:translateX(0) rotate(-30deg);-o-transform:translateX(0) rotate(-30deg);transform:translateX(0) rotate(-30deg)}.pin-gift-1 .pg1-t2{width:5.53rem;height:.29rem;margin:.5rem auto 0}.pin-gift-2 .section-letter{right:-100%;-moz-transition:all 1s;-o-transition:all 1s;-webkit-transition:all 1s;transition:all 1s}.pin-gift-2 .section-letter.change{right:0}.pin-gift-3 .replace-text{width:3.86rem;height:.8rem;margin:.5rem auto .6rem}.pin-gift-3 .replace-text.rt-2{width:3.48rem;height:1.3rem}.page-form .logo{padding-top:0}.page-form .v-content{z-index:10}#form-contact{width:80vw}#form-contact .title{width:2.65rem;height:.31rem;margin:0 auto .2rem}#form-contact input[type=text],#form-contact input[type=tel]{margin:0;background:url(../images/input-bg.png) no-repeat;background-size:100% 100%;border:none;padding:.3rem .5rem .5rem;box-sizing:border-box;font-size:.24rem}#form-contact .input-box{margin-bottom:.1rem}#form-contact .input-box-name input[type=text]{width:49%}#form-contact .input-box-mobile input[type=text]{width:25%}#form-contact .input-box-mobile input[type=text]:disabled{opacity:1}#form-contact .input-box-mobile input[type=tel]{width:73%}#form-contact .input-box-address input[type=text],#form-contact .input-box-mail input[type=text]{width:98%}#form-contact .input-checkbox{color:#8b6602;font-size:.22rem;margin-bottom:.3rem}#form-contact .error{color:#d79939;font-size:.2rem}.success-block{position:relative;z-index:2}.success-block .s-t1{width:1.3rem;height:1.5rem;margin:.5rem auto}.success-block .btn-gohome{width:3.6rem}

diff --git a/assets/scss/_home.scss b/assets/scss/_home.scss
@@ -441,7 +441,7 @@ html,body{
     @include size(3.2rem,0.8rem);
     margin: 1rem auto;
     &.rt-2{
-      @include size(4.8rem,1.24rem);
+      @include size(5.39rem,1.24rem);
     }
     &.rt-3{
       @include size(4.26rem,0.8rem);

diff --git a/assets/css/style.css b/assets/css/style.css
@@ -1365,7 +1365,7 @@ html, body {
   margin: 1rem auto;
 }
 .pin-4 .replace-text.rt-2 {
-  width: 4.8rem;
+  width: 5.39rem;
   height: 1.24rem;
 }
 .pin-4 .replace-text.rt-3 {
